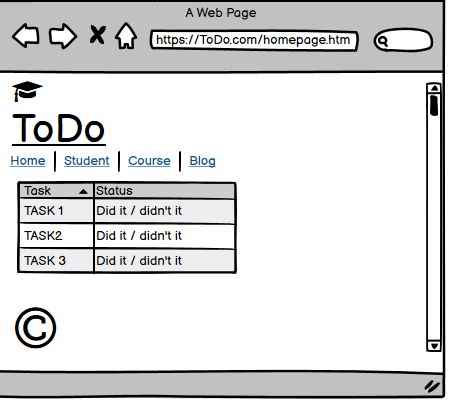
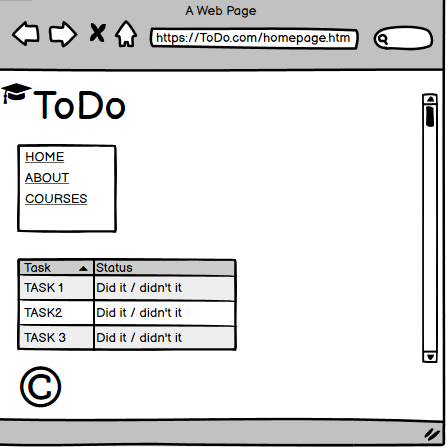
add two images

Changed region(s): [[0.0, 0.0, 1.0, 1.0]]

diff --git a/index.html b/index.html
@@ -5,82 +5,84 @@
     <meta http-equiv="X-UA-Compatible" content="IE=edge">
     <meta name="viewport" content="width=device-width, initial-scale=1.0">
     <title>ToDo</title>
-    <link rel="shortcut icon" href="/favicon.ico.jpg" type="image/x-icon">
+    <link rel="shortcut icon" href="/favicon.ico.jpg" type="image/x-icon"
+    >
+    
 </head>
 <body>
+  <style>
+table, th, td {
+  border:1px solid black;
+}
+</style>
+
+  </style>
+  <header>
     <img src="https://media.istockphoto.com/vectors/graduation-cap-symbol-stock-
-vector-vector-id953455920?k=20&m=953455920&s=612x612&w=0&h=EAg4lgAdwsJo_0RC_NGkaRujEmD51Tz3D0VRKZFcaNQ=" hight="70px" width="70px" alt="logo">
+    vector-vector-id953455920?k=20&m=953455920&s=612x612&w=0&h=EAg4lgAdwsJo_0RC_NGkaRujEmD51Tz3D0VRKZFcaNQ=" hight="70px" width="70px" alt="logo">
     <h1>ToDo</h1>
-    <style>
-        body {
-          margin: 0;
-          font-family: Arial, Helvetica, sans-serif;
-        }
-        
-        .topnav {
-          overflow: hidden;
-          background-color: #333;
-        }
-        
-        .topnav a {
-          float: left;
-          color: #f2f2f2;
-          text-align: center;
-          padding: 14px 16px;
-          text-decoration: none;
-          font-size: 17px;
-        }
-        
-        .topnav a:hover {
-          background-color: #ddd;
-          color: black;
-        }
-        
-        .topnav a.active {
-          background-color: #04AA6D;
-          color: white;
-        }
-        </style>
-        </head>
-        <body>
-        
-        <div class="topnav">
-          <a class="active" href="#home">Home</a>
-          <a href="#student">student</a>
-          <a href="#Course">course</a>
-          <a href="#about">About</a>
-        </div>
-        
-        
-        
+
+    <ul>
+        <li><a href="/">Home</a></li>
+        <li><a href="./about.html">About</a></li>
+        <li><a href="./Courses">Courses</a></li>
+      </ul>
+
+  </header>
+  <main>
+
     <table>
-        <tr>
-          <th>TASK</th>
-          <th>status</th>
-          
-        </tr>
-        <tr>
-          <td>TASK1</td>
-        </br>
-          <td>yes/No</td>
-          
-        </tr>
-        <tr>
-          <td>TASK2</td>
-        </br>
-          <td>yes/No</td>
-          
-        </tr>
-        <tr>
-            <td>TASK3</td>
-        </br>
-            <td>yes/No</td>
+      <tr>
+        <th>TASK</th>
+        <th>status</th>
+        
+      </tr>
+      <tr>
+        <td>TASK1</td>
+      </br>
+        <td><form action="/action_page.php">
+          <label for="cars">Choose a status:</label>
+          <select name="cars" id="cars">
+            <option value="volvo">Yes I did it</option>
+            <option value="saab">No I didn't it</option>
             
-          </tr>
-      </table>
-
-      <p>I will display &euro;</p>
-</body>
-
+          </select>
+          <br><br></td>
+        
+      </tr>
+      <tr>
+        <td>TASK2</td>
+      </br>
+        <td><form action="/action_page.php">
+          <label for="cars">Choose a status:</label>
+          <select name="cars" id="cars">
+            <option value="volvo">Yes I did it</option>
+            <option value="saab">No I didn't it</option>
+            
+          </select>
+          <br><br></td>
+        
+      </tr>
+      <tr>
+          <td>TASK3</td>
+      </br>
+          <td><form action="/action_page.php">
+              <label for="cars">Choose a status:</label>
+              <select name="cars" id="cars">
+                <option value="volvo">Yes I did it</option>
+                <option value="saab">No I didn't it</option>
+                
+              </select>
+              <br><br></td>
+          
+        </tr>
+    </table>
     
+  </main>
+  <footer>
+    <p>I will display &#169;
+  </footer>
+   
+      
+</body>
 </html>

diff --git a/about.html b/about.html
@@ -1,0 +1,60 @@
+<!DOCTYPE html>
+<html lang="en">
+<head>
+    <meta charset="UTF-8">
+    <meta http-equiv="X-UA-Compatible" content="IE=edge">
+    <meta name="viewport" content="width=device-width, initial-scale=1.0">
+    <title>About</title>
+    <link rel="shortcut icon" href="./istockphoto-1209654046-612x612.jpg" type="image/x-icon">
+    <img src="https://media.istockphoto.com/vectors/user-avatar-profile-icon-black-vector-illustration-vector-id1209654046?k=20&m=1209654046&s=612x612&w=0&h=Atw7VdjWG8KgyST8AXXJdmBkzn0lvgqyWod9vTb2XoE=" alt="about" style="width:50px;height:60px;">
+</head>
+<body>
+    <header>
+        <h1>ABOUT</h1>
+    </header>
+<main>
+    <ul>
+        <li><a href="/">Home</a></li>
+        <li><a href="./about.html">About</a></li>
+        <li><a href="./Courses">Courses</a></li>
+      </ul>
+      <br>
+      <p>Sozan Alzubiedy</p>
+<p>phone num: 0780978714</p>
+      <br>
+    </main>
+    
+
+      
+
+
+<footer>
+    <div class="container">
+        <div >
+          <h2>Contact Us</h2>
+        </div>
+        <div class="row">
+          <div class="column">
+          </div>
+          <div class="column">
+            <form action="/action_page.php">
+              <label for="Name">Name</label>
+              <input type="e-mail" id="Name" name="firstname" placeholder="Your name..">
+              <label for="lname">E-mail</label>
+              <input type="text" id="lname" name="lastname" placeholder="E-mail..">
+                <label for="message">message</label>
+                <input type="message" id="message" name="message" placeholder="message">
+              </select>
+              
+              <input type="submit" value="Submit">
+            </form>
+          </div>
+        </div>
+      </div>
+      
+    
+</footer>
+<p>I will display &#169;
+    
+</body>
+</html>
